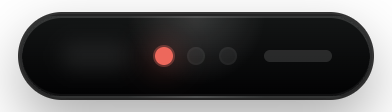
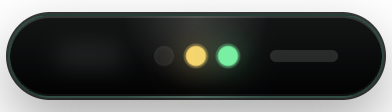
Drive pet status lights from presence

diff --git a/src/App.tsx b/src/App.tsx
@@ -156,6 +156,48 @@ type ConversationState = {
   }
 }
 
+type PresenceMode =
+  | 'standby'
+  | 'watching'
+  | 'waking'
+  | 'connecting'
+  | 'listening'
+  | 'voice_error'
+  | 'working'
+  | 'needs_attention'
+  | 'setup_blocked'
+
+type PresenceState = {
+  ok: boolean
+  generatedAt: string
+  mode: PresenceMode
+  label: string
+  summary: string
+  intervention: {
+    passiveByDefault: boolean
+    requiresUserIntent: boolean
+    canActWhenInvited: boolean
+    trustedLocalMode: boolean
+    maxAutoRiskLevel: number
+    requireApprovalAtRiskLevel: number
+    next: string
+  }
+  observing?: {
+    latest?: {
+      available: boolean
+      app: string
+      windowTitle: string
+      browser?: {
+        available: boolean
+        app: string
+        title: string
+        url: string
+        host: string
+      }
+    }
+  }
+}
+
 type RealtimePreflightContext = {
   enabled: boolean
   generatedAt: string
@@ -379,6 +421,7 @@ type Status = {
     imageDataUrl?: string
   }
   screenPrivacy?: ScreenPrivacy
+  presence?: PresenceState
   conversation?: ConversationState
   speech?: {
     available: boolean
@@ -781,6 +824,20 @@ const DEFAULT_SCREEN_PRIVACY: ScreenPrivacy = {
   jpegQuality: 0.46,
   realtimeAllowed: true,
   updatedAt: startupTime,
+}
+
+type PetMood = 'standby' | 'ready' | 'watching' | 'listening' | 'thinking' | 'attention' | 'needs-key'
+
+function petMoodLabel(mood: PetMood, presence?: PresenceState, talking = false) {
+  if (mood === 'needs-key') return 'Needs key'
+  if (talking) return 'Hearing you'
+  if (presence?.label) return presence.label
+  if (mood === 'attention') return 'Needs attention'
+  if (mood === 'listening') return 'Listening'
+  if (mood === 'thinking') return 'Working'
+  if (mood === 'watching') return 'Watching'
+  if (mood === 'standby') return 'Standby'
+  return 'Ready'
 }
 
 function initialApiToken() {
@@ -2239,14 +2296,18 @@ function App() {
     return found?.text || 'Ready.'
   }, [messages])
 
-  const mood = useMemo(() => {
+  const presence = status?.presence
+  const mood = useMemo<PetMood>(() => {
     if (!status?.api.hasOpenAiKey) return 'needs-key'
-    if (approvals.length > 0) return 'thinking'
-    if (voiceStatus === 'live') return 'listening'
-    if (activeJobCount > 0) return 'thinking'
-    if (screenLive) return 'watching'
+    if (presence?.mode === 'setup_blocked' || presence?.mode === 'voice_error' || readiness?.overall === 'blocked') return 'attention'
+    if (presence?.mode === 'needs_attention' || approvals.length > 0) return 'attention'
+    if (voiceStatus === 'connecting' || presence?.mode === 'connecting' || presence?.mode === 'waking') return 'thinking'
+    if (voiceStatus === 'live' || presence?.mode === 'listening') return 'listening'
+    if (activeJobCount > 0 || presence?.mode === 'working') return 'thinking'
+    if (screenLive || presence?.mode === 'watching') return 'watching'
+    if (presence?.mode === 'standby') return 'standby'
     return 'ready'
-  }, [activeJobCount, approvals.length, screenLive, status?.api.hasOpenAiKey, voiceStatus])
+  }, [activeJobCount, approvals.length, presence?.mode, readiness?.overall, screenLive, status?.api.hasOpenAiKey, voiceStatus])
 
   const voiceAction = useCallback(() => {
     if (voiceStatus === 'idle' || voiceStatus === 'error') {
@@ -2264,6 +2325,8 @@ function App() {
   }, [screenLive, startScreen, stopScreen])
   const talking = voiceStatus === 'live' && (micMode === 'open' || isPushingToTalk)
   const petAction = status?.api.hasOpenAiKey ? startAssistantSession : openConfigCui
+  const petStatusLabel = petMoodLabel(mood, presence, talking)
+  const petStatusDetail = presence?.intervention?.next || latestLine || 'Click to talk. Right-click for config.'
   const petActionLabel = !status?.api.hasOpenAiKey
     ? 'Open JAVIS config'
     : voiceStatus === 'live' || screenLive
@@ -2295,8 +2358,8 @@ function App() {
             void openConfigCui()
           }}
           disabled={voiceStatus === 'connecting'}
-          aria-label={petActionLabel}
-          title="Click to talk. Right-click for config."
+          aria-label={`${petStatusLabel}. ${petActionLabel}`}
+          title={`${petStatusLabel}. ${petStatusDetail} Click to talk. Right-click for config.`}
         >
           <span className="island-glow" aria-hidden="true" />
           <span className="island-lights" aria-hidden="true">
@@ -2308,7 +2371,7 @@ function App() {
         </button>
 
         <div className="speech no-drag">
-          <span>{mood === 'needs-key' ? 'Needs key' : talking ? 'Hearing you' : mood === 'listening' ? 'Voice ready' : mood === 'thinking' ? 'Working' : mood === 'watching' ? 'Watching' : 'Ready'}</span>
+          <span>{petStatusLabel}</span>
           <p>{latestLine}</p>
         </div>
 

diff --git a/src/App.css b/src/App.css
@@ -123,6 +123,7 @@ select {
 }
 
 .mood-ready .light-green,
+.mood-standby .light-green,
 .mood-listening .light-green,
 .mood-watching .light-green {
   background: #35f29a;
@@ -130,6 +131,13 @@ select {
     0 0 16px rgba(53, 242, 154, 0.85),
     0 0 0 1px rgba(53, 242, 154, 0.35);
   opacity: 1;
+}
+
+.mood-standby .light-green {
+  opacity: 0.64;
+  box-shadow:
+    0 0 10px rgba(53, 242, 154, 0.42),
+    0 0 0 1px rgba(53, 242, 154, 0.22);
 }
 
 .mood-thinking .light-yellow,
@@ -142,6 +150,7 @@ select {
   opacity: 1;
 }
 
+.mood-attention .light-red,
 .mood-needs-key .light-red {
   background: #ff5c55;
   box-shadow:
@@ -150,10 +159,19 @@ select {
   opacity: 1;
 }
 
+.mood-attention .voice-capsule,
+.mood-needs-key .voice-capsule {
+  border-color: rgba(255, 92, 85, 0.24);
+}
+
 .mood-listening .voice-capsule,
 .mood-watching .voice-capsule {
   width: 188px;
   border-color: rgba(96, 255, 213, 0.24);
+}
+
+.mood-standby .voice-capsule {
+  border-color: rgba(95, 255, 171, 0.14);
 }
 
 .mood-thinking .voice-capsule {
@@ -163,7 +181,8 @@ select {
 
 .mood-listening .island-light,
 .mood-thinking .island-light,
-.mood-watching .island-light {
+.mood-watching .island-light,
+.mood-attention .island-light {
   animation: island-pulse 900ms ease-in-out infinite alternate;
 }
 

diff --git a/docs/OPERATIONS.md b/docs/OPERATIONS.md
@@ -154,7 +154,7 @@ a Codex-style skill draft, or export that draft to `~/.agents/skills` after typi
 
 Use option `5. Open Full Disk Access settings` when you want macOS to allow JAVIS/Electron into protected local folders. macOS still requires a human confirmation in System Settings.
 
-The desktop pet is intentionally minimal. It is a small voice capsule on the edge of the screen and avoids showing setup state, diagnostic chips, or configuration controls.
+The desktop pet is intentionally minimal. It is a small voice capsule on the edge of the screen and avoids showing setup state, diagnostic chips, or configuration controls. In compact mode it consumes `/api/presence` and maps the resident state to traffic-light dots: red for attention/setup, yellow for waking/working, green for ready/standby, and green+yellow for observing or listening.
 
 Click the pet to start or stop realtime voice with full-screen context once `OPENAI_API_KEY` is configured. If the key is missing, the pet opens the terminal CUI instead. Screen context is captured by the resident process, so it does not ask which window to share. Inside a live voice session, `JAVIS_WAKE_WORDS` defines soft wake words such as `JAVIS`, `Jarvis`, `贾维斯`, and `小贾`. For true local wake, set `JAVIS_WAKE_ENGINE_CMD` to a command that prints `wake` or one configured wake word; JAVIS will then expose that through `/api/wake/status` and the renderer will start voice automatically.
 
@@ -318,7 +318,7 @@ For a real voice progress run, keep `npm run config` open on option `V` while th
 
 Learning controls are local. `paused:true` stops future learning distillation, `includeInPrompts:false` keeps the profile on disk but prevents prompt injection, and exclusions keep matching apps/sites/folder-like contexts out of future ambient samples and distillation. Routing records include `learningEvidence` so you can see whether inferred habits were attached to a task prompt. `/api/learning/skill-draft` follows the Codex Record & Replay shape by turning inferred habits plus recent routing/workflow evidence into a reviewable `SKILL.md` draft; it does not write files. `/api/learning/skill-draft/save` requires `confirm:true` and writes to user-level `~/.agents/skills`, not the open-source repo.
 
-`private` mode is the default. It downscales and blurs/pixelates frames before they are sent to the local API or Realtime. `/api/screen/capture-now` refreshes the latest full-screen frame from the resident process without a window picker. Use `{"mode":"clear"}` only when sharper screen context is worth the privacy tradeoff. `/api/conversation/state` tracks the renderer-reported voice lifecycle and heartbeats with a per-session token, so stale closes or heartbeats from an older Realtime connection do not overwrite the active session. `/api/realtime/context` is the silent preflight context sent into new voice sessions when `JAVIS_REALTIME_PREFLIGHT_CONTEXT` is not `false`. While voice is live, the renderer also polls `/api/work/progress` at `VITE_JAVIS_REALTIME_WORK_PROGRESS_SYNC_MS` and sends deduplicated silent updates when background work changes. `/api/presence` is a read-only standby/watch/work/listening summary over conversation state, wake state, ambient metadata, local learning, active jobs, approvals, and guardrails. Ambient observe stores local metadata and can keep the latest private screen frame fresh when `JAVIS_AMBIENT_CAPTURE_SCREEN=true`. Stopping screen context from the buddy clears the latest stored frame; the DELETE endpoint is the manual equivalent.
+`private` mode is the default. It downscales and blurs/pixelates frames before they are sent to the local API or Realtime. `/api/screen/capture-now` refreshes the latest full-screen frame from the resident process without a window picker. Use `{"mode":"clear"}` only when sharper screen context is worth the privacy tradeoff. `/api/conversation/state` tracks the renderer-reported voice lifecycle and heartbeats with a per-session token, so stale closes or heartbeats from an older Realtime connection do not overwrite the active session. `/api/realtime/context` is the silent preflight context sent into new voice sessions when `JAVIS_REALTIME_PREFLIGHT_CONTEXT` is not `false`. While voice is live, the renderer also polls `/api/work/progress` at `VITE_JAVIS_REALTIME_WORK_PROGRESS_SYNC_MS` and sends deduplicated silent updates when background work changes. `/api/presence` is a read-only standby/watch/work/listening summary over conversation state, wake state, ambient metadata, local learning, active jobs, approvals, and guardrails; its `intervention` block must remain passive-by-default and require user intent. Ambient observe stores local metadata and can keep the latest private screen frame fresh when `JAVIS_AMBIENT_CAPTURE_SCREEN=true`. Stopping screen context from the buddy clears the latest stored frame; the DELETE endpoint is the manual equivalent.
 
 For local work sessions:
 

diff --git a/docs/ROADMAP.md b/docs/ROADMAP.md
@@ -22,6 +22,7 @@
 - Resident notifications for approvals and background task completion.
 - Push-to-talk voice mode.
 - Runtime/tool activity log in CUI/API, not on the desktop pet.
+- Desktop pet consumes resident presence as a traffic-light Dynamic Island capsule instead of showing diagnostic chips.
 
 ## Phase 1: Reliable Resident Server
 
@@ -78,6 +79,7 @@
 - Capture queue scoped to the local machine: current build supports persistent Inbox items, read-only triage, explicit process-next, and routing them into work lanes; next, add spoken confirmation policies and richer triage grouping.
 - Work sessions scoped to the local machine: current build supports start/resume/status/note/check-in/end plus automatic evidence from Inbox, jobs, workflows, and approvals; next, improve spoken handoff quality.
 - Long-running work status scoped to the local machine: current build supports deterministic progress check-ins over jobs and workflows; next, stream richer live updates into active voice sessions.
+- Presence status scoped to the local machine: current build exposes standby/watch/work/listening state and maps it to the compact traffic-light pet; next, connect richer notification timing so attention states stay rare and useful.
 - Continue-from-history prompts over recent workflow records and memory-aware follow-up prompts.
 
 ## Phase 4: Trust And Autonomy